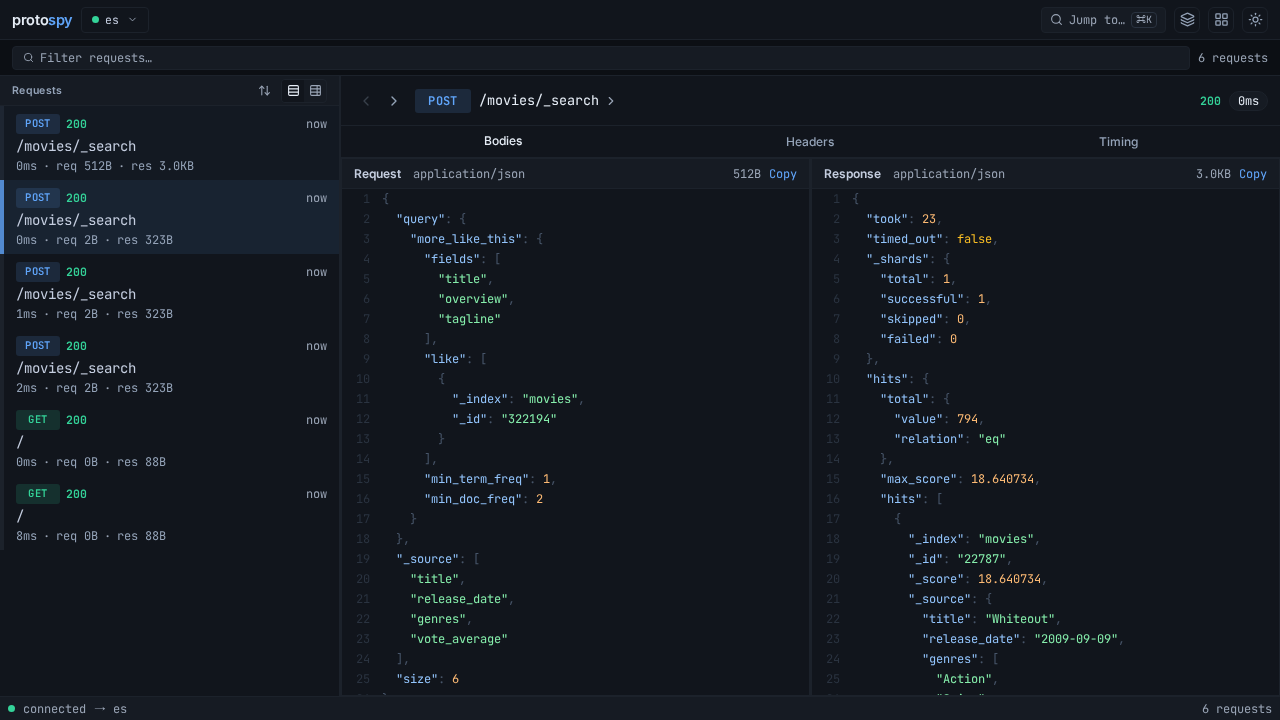
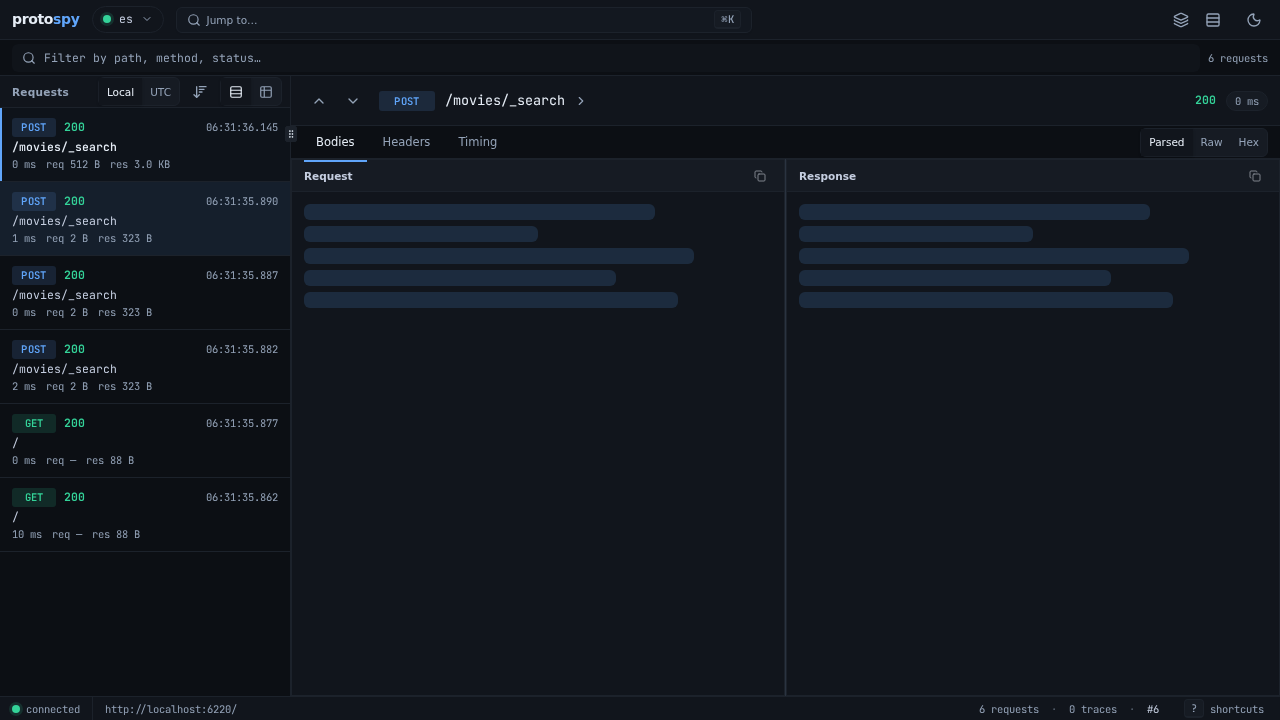
fix(scripts): update screenshot script to use next-themes bridge for dark mode
`toggleDarkMode` was removed from the Zustand store when theme ownership
moved to next-themes. Switch to `window.__test_theme.setTheme("dark")`,
the bridge already exposed by `App.tsx` for the Playwright harness, and
wait for the `.dark` class to land on `<html>` before proceeding.

diff --git a/ui/scripts/take-screenshots.ts b/ui/scripts/take-screenshots.ts
@@ -251,12 +251,23 @@ async function main(): Promise<void> {
     { timeout: 10_000 },
   );
 
-  // Force dark mode (the store's toggleDarkMode also updates data-theme on <html>)
+  // Force dark mode via the next-themes bridge (window.__test_theme.setTheme).
+  // Theme moved out of the Zustand store with the v2.3 next-themes swap.
+  await page.waitForFunction(
+    () => !!(window as any).__test_theme?.setTheme, // eslint-disable-line @typescript-eslint/no-explicit-any
+    undefined,
+    { timeout: 10_000 },
+  );
   await page.evaluate(() => {
     // eslint-disable-next-line @typescript-eslint/no-explicit-any
-    const state = (window as any).__test_store.getState();
-    if (!state.darkMode) state.toggleDarkMode();
+    (window as any).__test_theme.setTheme("dark");
   });
+  // Wait for the .dark class to land on <html>
+  await page.waitForFunction(
+    () => document.documentElement.classList.contains("dark"),
+    undefined,
+    { timeout: 5_000 },
+  );
 
   // Brief pause to let the SSE useEffect connect before traffic arrives
   await sleep(500);